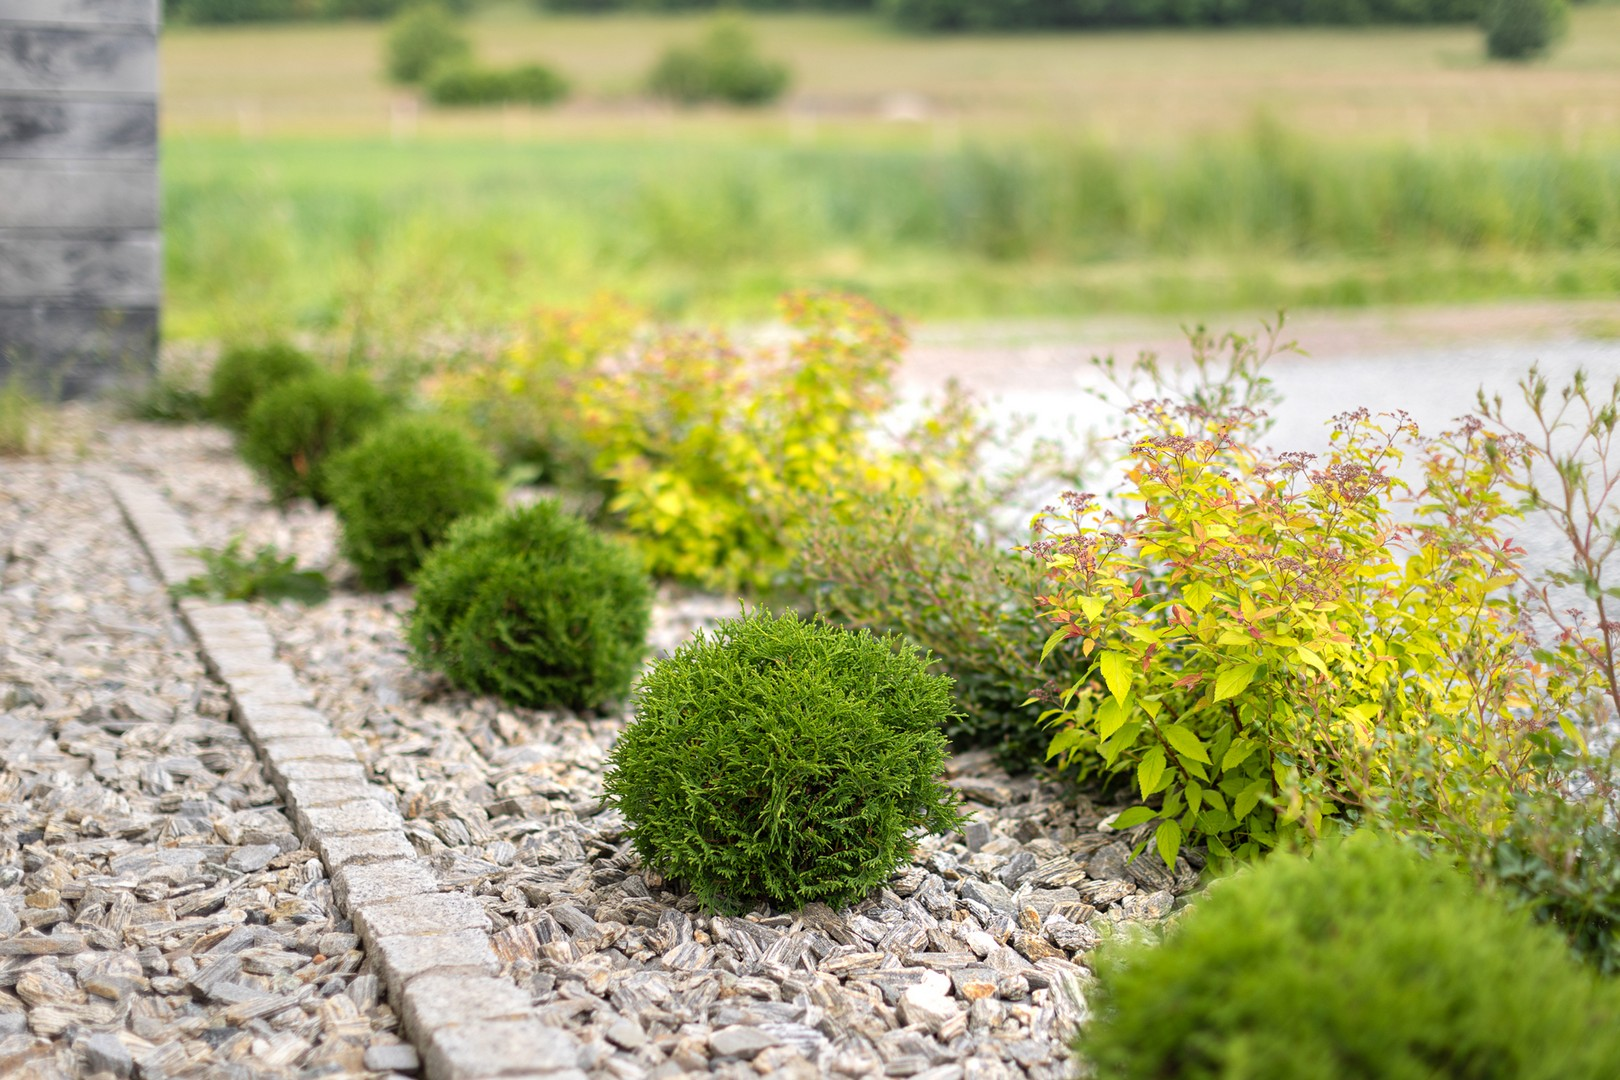
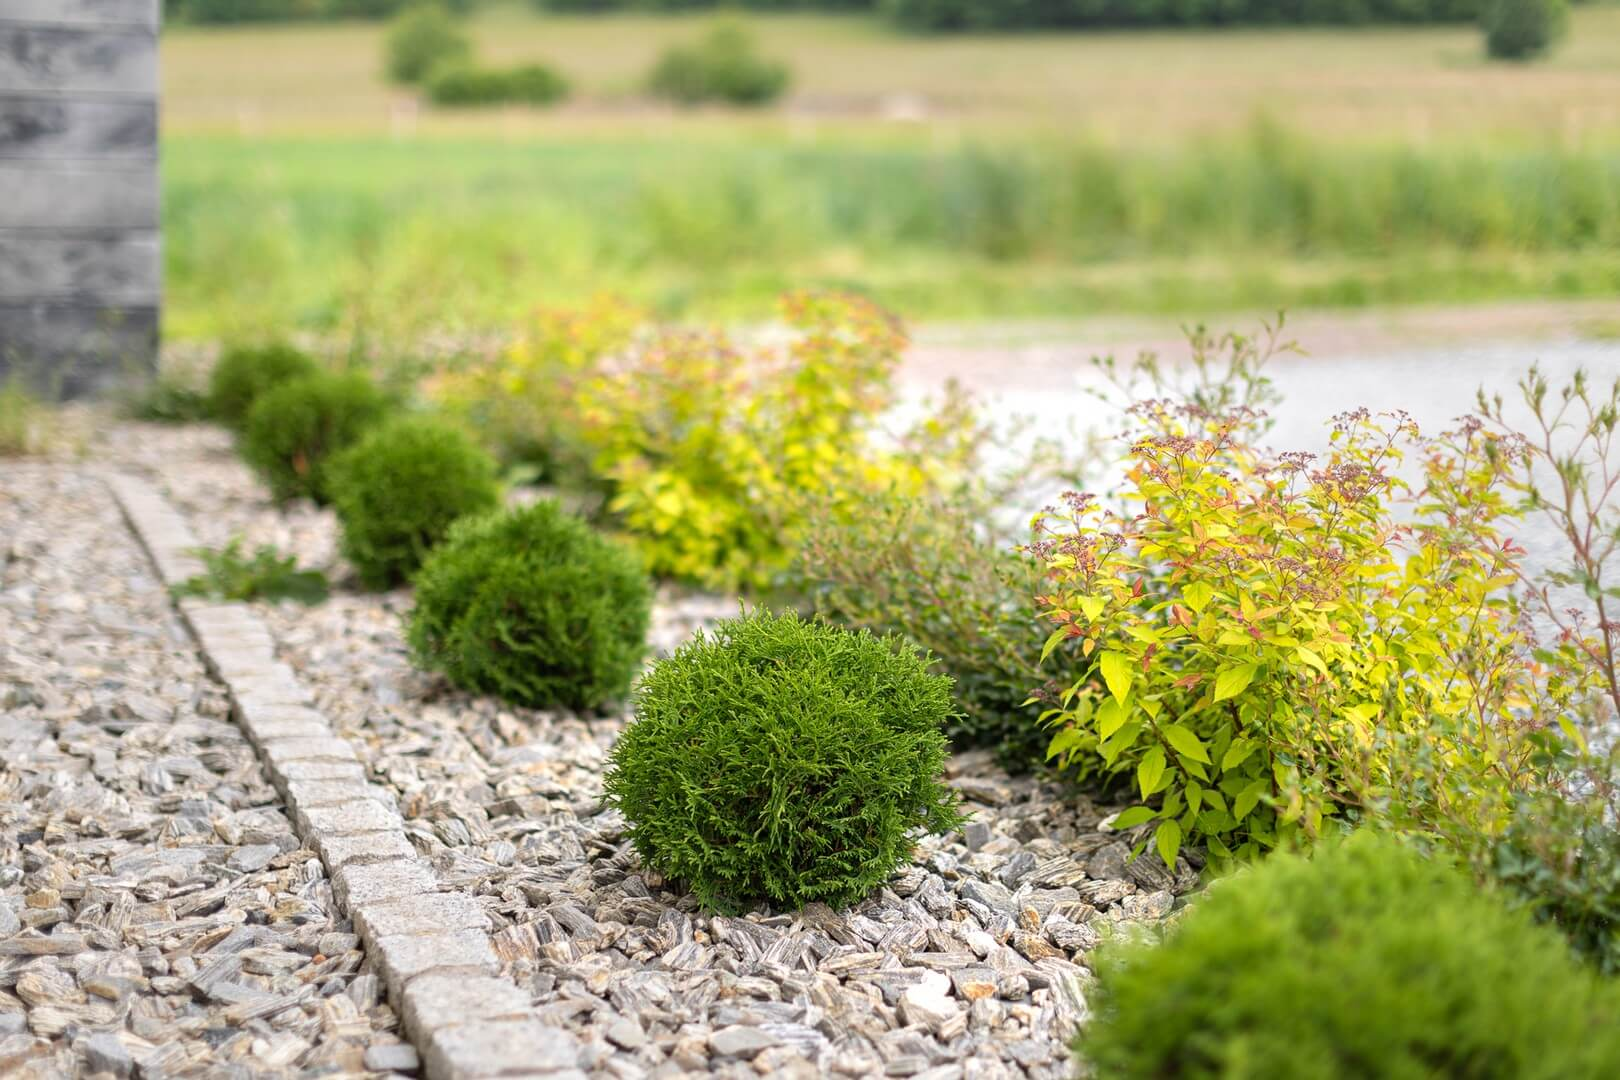
resized imgs

diff --git a/index.html b/index.html
@@ -31,7 +31,7 @@
                 "reviewCount": "75"
             },
             "telephone": "+48 505 720 041",
-            "photo": "https://cichyzakatek.com.pl/img/galeria/back-main-tel.jpg"
+            "photo": "https://cichyzakatek.com.pl/img/galeria/back-main-sm-tel.jpg"
 
         }
     </script>
